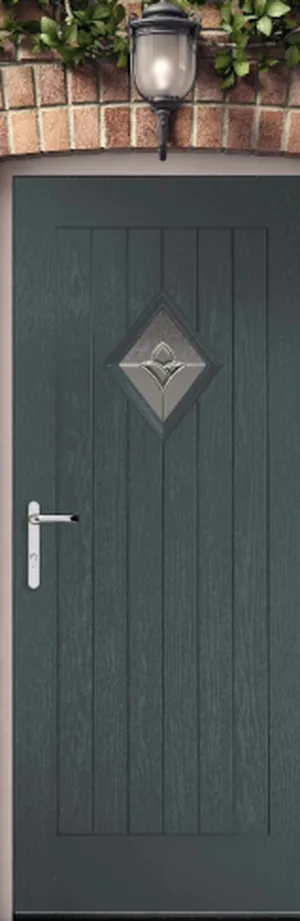
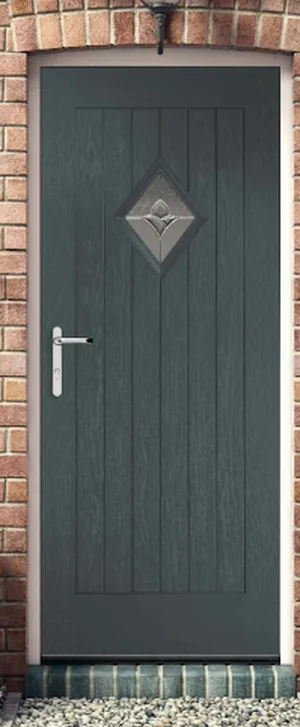
Frame the Rustic Renown crop to match the flat door renders

diff --git a/app/public/wp-content/themes/fenster/scripts/build-composite-door-wall.py b/app/public/wp-content/themes/fenster/scripts/build-composite-door-wall.py
@@ -65,7 +65,7 @@ DOORS = [
     ("sign_RES01-scaled.jpg", "stable-solid", "Stable, solid", "Stable Doors"),
     # The only Rustic Renown asset in the scrape is a lifestyle photograph, so it
     # is cropped to the door face. Replace with a flat render if one is supplied.
-    ("Diamond-rustic-Renown-Basalt-Grey@2x.jpg", "rustic-renown-rr03", "Rustic Renown RR03", "Rustic Renown", (0.38, 0.14, 0.62, 0.88)),
+    ("Diamond-rustic-Renown-Basalt-Grey@2x.jpg", "rustic-renown-rr03", "Rustic Renown RR03", "Rustic Renown", (0.35, 0.215, 0.65, 0.945)),
     ("sign_RE01-cottage-scaled.jpg", "retail-cottage", "Cottage", "Renown"),
     ("sign_RE02-renown-scaled.jpg", "renown", "Renown", "Renown"),
     ("sign_RE03-renown-diamond-scaled.jpg", "renown-diamond", "Renown Diamond", "Renown"),
